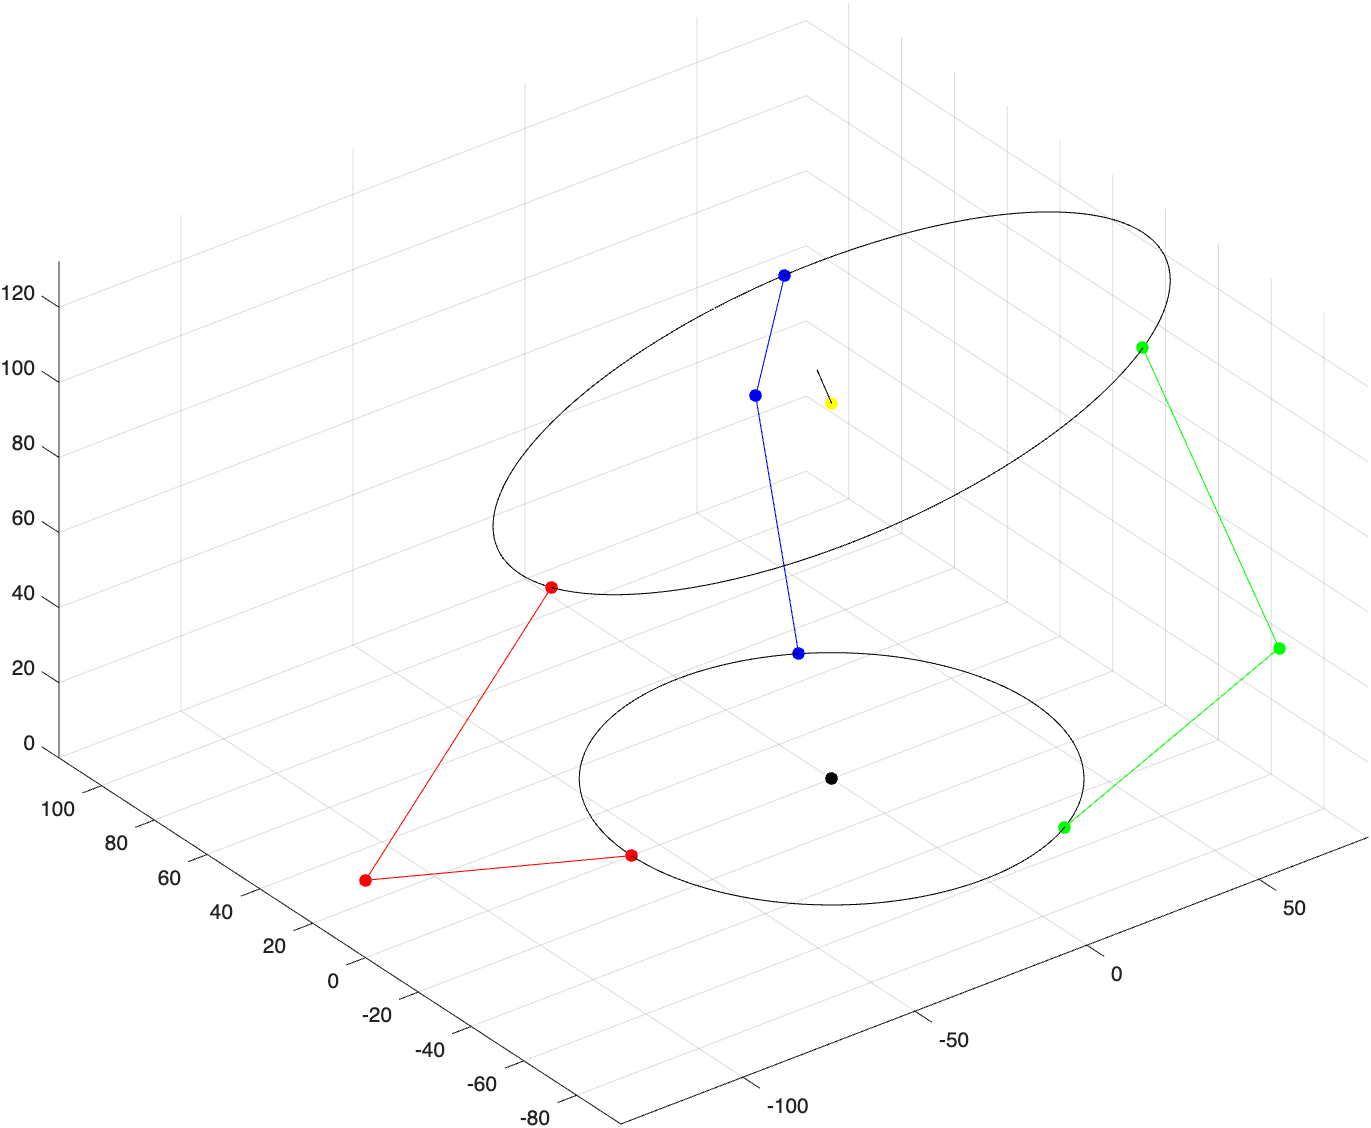
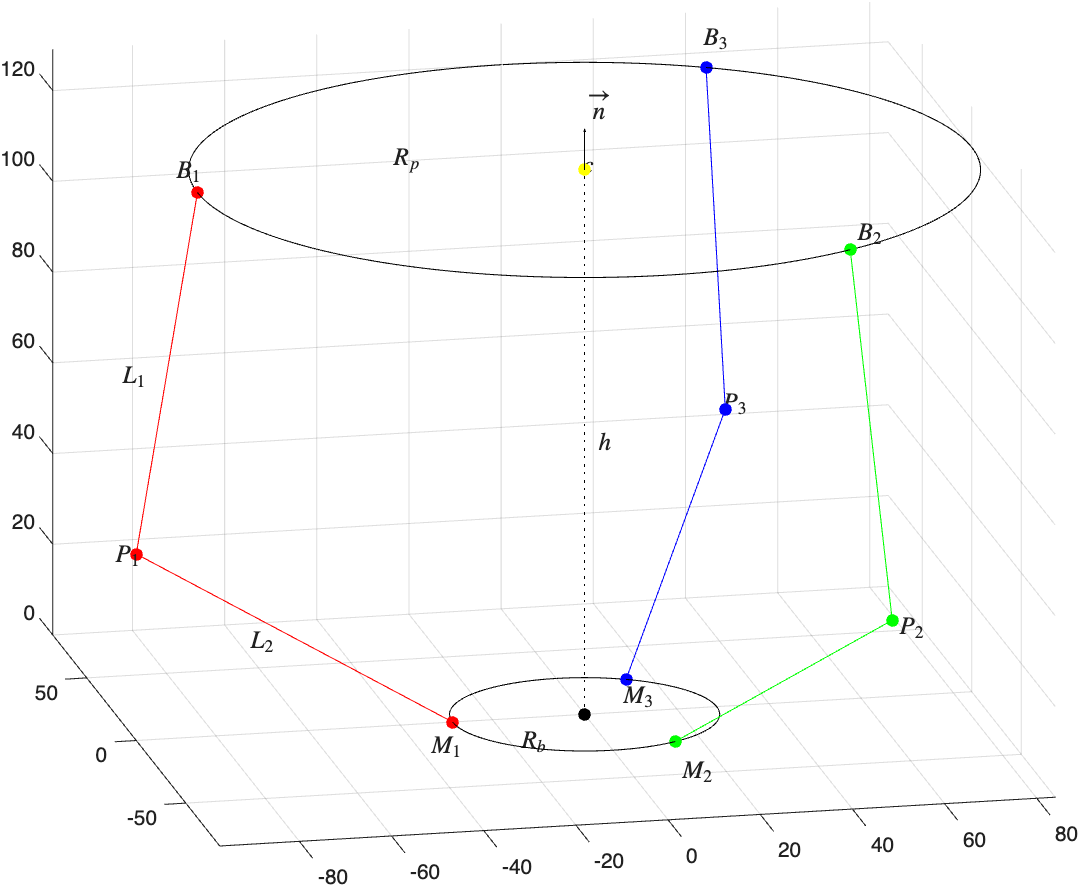
Removed and renamed some stl files. Updated the Mechanical design and Electronic section of the README

diff --git a/inverse_kinematics.m b/inverse_kinematics.m
@@ -140,6 +140,35 @@ plot3([P3(1), M3(1)], [P3(2), M3(2)], [P3(3), M3(3)], 'b');
 
 axis equal;
 
+% LABELS
+% d = 0.06 * R_p;                          % offset
+% lab = {'Interpreter', 'latex', 'FontSize', 12};
+% 
+% text(M1(1)-d, M1(2), M1(3)-d, '$M_1$', lab{:});
+% text(M2(1), M2(2)-d, M2(3)-d, '$M_2$', lab{:});
+% text(M3(1), M3(2)+d, M3(3)-d, '$M_3$', lab{:});
+% 
+% text(P1(1)-d, P1(2), P1(3), '$P_1$', lab{:});
+% text(P2(1), P2(2)-d, P2(3), '$P_2$', lab{:});
+% text(P3(1), P3(2)+d, P3(3), '$P_3$', lab{:});
+% 
+% text(B1(1)-d, B1(2), B1(3)+d, '$B_1$', lab{:});
+% text(B2(1), B2(2)-d, B2(3)+d, '$B_2$', lab{:});
+% text(B3(1), B3(2)+d, B3(3)+d, '$B_3$', lab{:});
+% 
+% text(0, d, h, '$c$', lab{:});
+% text(10*n(1), 10*n(2), h + 10*n(3) + d, '$\vec{n}$', lab{:});
+% 
+% link lengths
+% text((P1(1)+B1(1))/2 - 2*d, 0, (P1(3)+B1(3))/2, '$L_1$', lab{:});
+% text((P1(1)+M1(1))/2 - 2*d, 0, (P1(3)+M1(3))/2, '$L_2$', lab{:});
+% 
+% radii and height
+% text(-R_b/2, 0, -d, '$R_b$', lab{:});
+% text(-R_p/2, 0, h + d, '$R_p$', lab{:});
+% text(d/2, 0, h/2, '$h$', lab{:});
+% plot3([0, 0], [0, 0], [0, h], 'k:'); 
+
 % ANGLES
 q1 = atan(sqrt((P1(2)-M1(2))^2 + (P1(1)-M1(1))^2)/abs(P1(3)-M1(3)))
 q2 = atan(sqrt((P2(2)-M2(2))^2 + (P2(1)-M2(1))^2)/abs(P2(3)-M2(3)))

diff --git a/README.md b/README.md
@@ -226,35 +226,71 @@ Running `inverse_kinematics.m` draws the whole assembly: base circle and the thr
 
 # 2. Mechanical design
 
+The robot is modeled in Fusion 360.
+
+<p align="center">
+  <img src="docs/animation.gif" width="640">
+  <br>
+  <em>The assembly moving in Fusion 360</em>
+</p>
+
+All the printed parts are in the `3d files` folder:
+
+| File | Part | Qty |
+|---|---|---|
+| `raspberry_bottom.stl` | lower half of the Raspberry Pi case, the foot of the robot | 1 |
+| `raspberry_top.stl` | upper half of the case, modified to carry the motor base | 1 |
+| `camera_cover.stl` | cover that holds the camera pointing up at the plate | 1 |
+| `motor_base.stl` | frame that holds the three servos 120° apart | 1 |
+| `link_lower_half.stl` | half of the lower link, from the motor to the elbow | 6 |
+| `link_lower_connector.stl` | connector of the two halves of the lower link | 3 |
+| `link_upper.stl` | upper link, from the elbow to the plate | 3 |
+| `plate.stl` | ring that holds the transparent plate | 1 |
+
+The pins of the joints are not printed: in the real robot they are three screws.
+
 > **On the ball joints.** They are *modeled* as ball joints but the physical model realize them as a screw through a clearance hole. That is nominally a pin joint; the extra rotational freedom comes from the clearance, so it is a compliant stand-in for a spherical pair rather than a true ball joint.
 
 <p align="center">
-  <img src="docs/ball_joint_detail.jpg" width="640">
+  <img src="docs/ball_joint_detail.jpg" width="480">
   <br>
-  <em>Physical realizations of the joint connecting link 2 with the plate</em>
+  <em>Physical realizations of the joint connecting the upper link with the plate</em>
 </p>
 
-The phisical dimension
+The physical dimensions of the mechanism, $R_b$, $R_p$, $L_1$ and $L_2$, are the ones already reported in §1.2: they are measured on the Fusion 360 model, and they are the values used thoughout the project.
 
-```matlab
-R_b = 28.65;       % base radius        [mm]
-R_p = 84.00;       % plate radius       [mm]
-L1  = 80.00;       % link Bi -> Pi     [mm]
-L2  = 80.00;       % link Pi -> Mi     [mm]
-```
+In the first version of the robot the length of the links were about half of the current ones. The plate was then so close to the camera that the ball covered almost the entire field of view, and its position was detected poorly. The links have therefore been made longer, until the stand-off between the camera and the plate was enough for a reliable detection, but not so long to increase excessively the moment arm, and with it the torque the servos need to tilt the plate.
 
 # 3. Electronics
 
-# 3. Ball detection
+The electronics are kept as simple as possible: a Raspberry Pi 4 Model B, three SG90 servo motors and male-female jumper cables.
 
-# 4. PID Control
+Each servo has three wires: signal, 5V and ground. The signal wires go to three GPIO pins of the Raspberry Pi:
 
-# 5. LQR Control
+| Motor | GPIO (BCM) | Header pin |
+|---|---|---|
+| 1 | 13 | 33 |
+| 2 | 18 | 12 |
+| 3 | 12 | 32 |
 
-# 6. Reinforcement Learning Control
+The numbers are the BCM numbering used by `pigpio`, not the position of the pin on the header. This is also the order declared in `ball_balancer.py` (`SERVO_PINS = [13, 18, 12]`), so keeping it makes the code work as it is.
 
-# 7. Credits
+The three grounds go to three distinct GND pins. The 5V pins of the Raspberry Pi are only two, so one servo takes one of them, while the other two share the second one through a jumper cable with one female and two male ends.
 
-This project is a reproduction of the ball balancing robot built by [Koshiro Robot Creator](https://www.youtube.com/watch?v=KnYSuQEBGHc). I decided to build my own version mainly to experiment and to learn, but also because I did not have the motors used in the original one: every part has therefore been modeled from scratch, taking inspiration from his design.
+> **On the power supply.** This is not the ideal way to feed three servos: a proper build would power them from a dedicated power supply module, leaving the 5V rail of the Raspberry Pi to the Raspberry Pi alone. Compactness was one of the goals of this project, so the current version accepts the compromise.
 
-The case that hosts the Raspberry Pi is the [Raspberry Pi 4 case](https://www.printables.com/model/566196-raspberry-pi-4-case) designed by Ryzor_Drone, modified so that it also works as the base of the robot. That model is licensed under [CC BY-NC-SA 4.0](https://creativecommons.org/licenses/by-nc-sa/4.0/), so `raspberry_bottom.stl` and `raspberry_top.stl` are shared under the same license: attribution required, non commercial use only, and any further modification must keep this same license. The rest of the parts are modeled from scratch and are not covered by it.
+# 4. Ball detection
+
+# 5. PID Control
+
+# 6. LQR Control
+
+# 7. Reinforcement Learning Control
+
+# 8. Future developments
+
+# 9. Credits
+
+This project is a reproduction of the ball balancing robot built by [Koshiro Robot Creator](https://www.youtube.com/watch?v=KnYSuQEBGHc). I decided to build my own version mainly to experiment and to learn, but also because I did not have the motors used in the original one: every part has therefore been modeled from scratch, taking inspiration from his design. The only exception is `camera_cover.stl`, which is a modified version of the one published in his [GitHub repository](https://github.com/KoshiroRobot/Ball-Balancing-Robot).
+
+The case that hosts the Raspberry Pi is the [Raspberry Pi 4 case](https://www.printables.com/model/566196-raspberry-pi-4-case) designed by Ryzor_Drone, modified so that it also works as the base of the robot. That model is licensed under [CC BY-NC-SA 4.0](https://creativecommons.org/licenses/by-nc-sa/4.0/), so `raspberry_bottom.stl` and `raspberry_top.stl` are shared under the same license: attribution required, non commercial use only, and any further modification must keep this same license. The other parts, `camera_cover.stl` apart, are modeled from scratch and are not covered by it.
